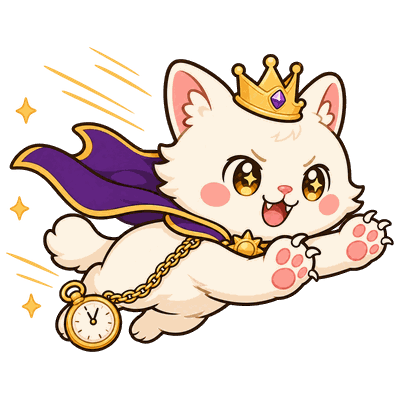
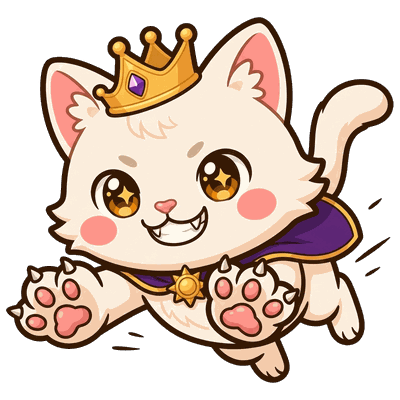
feat(art): 고양이 그림 셋을 SpriteCook 으로 다시 그림 — 얼굴·전신, 핑거 구슬·컷인, 탱크
- shared/images/zodiac/face·full/cat.png: 같은 디자인에서 외곽선을 굵게, 머리 비율을 약 60% 로 (원본 art/spritecook/cat/full-src.png)
- 시아핑거 h-cat · cut-cat: 다른 대원과 같은 모델(gemini-3.1-flash-image)로, 컷인은 몸이 칸을 채우게
- 시아탱크 tanks/cat.png (+ shared/images/zodiac/cat.png): 귀 둘 + 금관, 무한궤도 108px, tankArt.json 의 크기·cx 다시 잼
- 각 spritecook-assets.json · ids.tsv · refs.tsv · ASSETS.md 기록 정리

diff --git a/games/finger/ASSETS.md b/games/finger/ASSETS.md
@@ -59,7 +59,7 @@
 | `fx-laser` · `fx-laser-v` | 2 | 256×64 | 가로 레이저(분홍) · 세로 레이저(같은 그림을 파랑으로) — 길이만큼 늘여 씀 |
 | `fx-boom` | 1 | 256×256 | 땅 울림 |
 | `fx-heal` · `fx-shield` · `fx-poison` · `fx-fang` · `fx-ball` | 5 | 96×96 | 회복 · 보호막 · 독 · 이빨 · 튕김 구슬 (없으면 흰 코드 그림을 물들여) |
-| `cut-<id>` (12 대원 + 고양이) | 13 | 400×400 | 필살기 컷인 (화면 300px). 쥐·돼지는 오른쪽을 보게 뒤집었다. 고양이(`cut-cat`, 덮치기)는 `gpt-image-2` 2K 로 만들었다. 토끼는 전신(달떡을 든 채 뛰어오름)으로 다시 그렸고, 쥐는 흰 스티커 테두리를 뺀 수정본 |
+| `cut-<id>` (12 대원 + 고양이) | 13 | 400×400 | 필살기 컷인 (화면 300px). 쥐·돼지는 오른쪽을 보게 뒤집었다. 고양이(`cut-cat`, 덮치기)는 2026-11-25 에 다른 대원과 같은 모델로 다시 그렸다(몸이 칸을 채우게, 속도선·망토는 작게). 토끼는 전신(달떡을 든 채 뛰어오름)으로 다시 그렸고, 쥐는 흰 스티커 테두리를 뺀 수정본 |
 | `h-<id>` (12 대원 + 고양이) | 13 | 192×192 | 아래 파티 줄 구슬(64px) · 파티 고르기 칸 · 전신 그림을 못 읽을 때 판 위. 테두리 색이 타입(반사형 파랑 · 관통형 주황) |
 | `e-imp-hit` … `e-spirit-hit` (요괴 9종) | 9 | 원래 그림과 같은 크기·같은 자리 (128 / 192) | 맞은 직후 잠깐 바꿔 끼우는 `> <` 표정 |
 | `b-bigDokkaebi-hit` … `b-yeomra-hit` (보스 12종) | 12 | 원래 그림과 같은 크기·같은 자리 (512 / 640) | 보스 맞는 표정 (눈 질끈 · 놀란 입 · 땀방울). 원래 보스 그림(`games/survival` 의 asset id)을 `edit_asset_id` 로 표정만 바꿈. 받기 전이면 하얗게 번쩍 |

diff --git a/games/twelve/ASSETS.md b/games/twelve/ASSETS.md
@@ -42,7 +42,7 @@
 | 이름 | 양 | 크기(화면) | 내용 | 지금 |
 |---|---|---|---|---|
 | `hero-<id>` | 12종 + `hero-cat` | 프레임 96×96 | 걷기 4방향 × 4프레임, 공격 4방향 × 3프레임, 구르기 4프레임 시트 | 전신 그림 한 장 흔들기 |
-| `shared/images/zodiac/{full,face}/cat.png` | 1 | 193×240 / 얼굴 | 고양이 전신·얼굴 (공용. 다른 브랜치의 고양이 작업과 맞출 것) | 글자 그림 |
+| `shared/images/zodiac/{full,face}/cat.png` | 1 | 200×240 / 얼굴 192×192 | 고양이 전신·얼굴 (공용. 다른 브랜치의 고양이 작업과 맞출 것) | 글자 그림 |
 | `e-<요괴>` 지형 전용 | 지형당 4~6종 | 높이 46~72 | 지형 전용 요괴 (지금은 9종을 돌려 쓴다) | 디펜스 9종 |
 | `e-mud` · `e-lynx` | 2 | 높이 58 · 54 | 2지형 진흙 요괴(쓰러지면 작은 것 둘로 갈라진다) · 3지형 살쾡이 요괴(뛰어든다) | `e-water` · `e-fox` 그림에 색 입히기 (`art.ts` 의 `ENEMY_TINT`) |
 | `e-shade` · `e-catfish` · `e-toad` · `e-bomber` | 4 | 높이 58 · 68 · 54 · 52 | 4지형 그슨대(숨었다 나타난다 — 숨은 모습은 같은 그림을 희미하게) · 5지형 메기 요괴(수염으로 끌어당긴다) · 6지형 독두꺼비(독을 뱉는다) · 7지형 화약 도깨비(터진다) | `e-spirit` · `e-club` · `e-imp` · `e-imp` 그림에 색 입히기 (`ENEMY_TINT`) |
